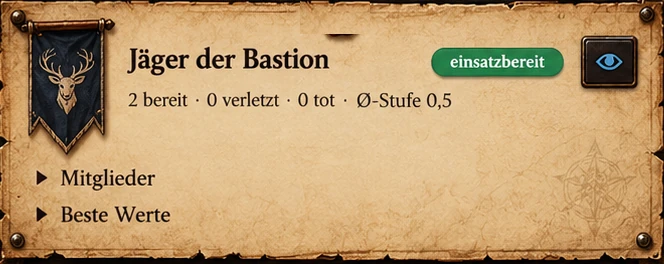
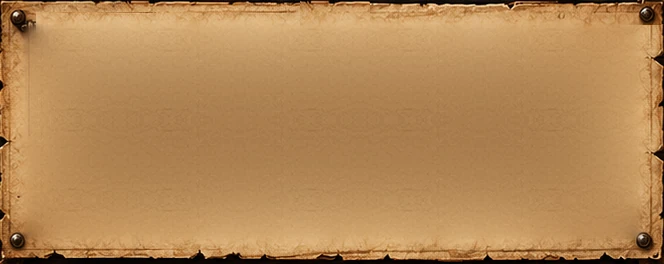
v0.7.2: Weichere Übergänge
- Pergament-Mitten werden aus den Randfarben neu aufgebaut (Diffusion + Papierstruktur)
  und als Teil desselben Bildes gezeichnet – kein aufgeklebter Innenbereich mehr
- Innenraum versinkt mit weichem Schatten im Rahmen
- Rahmen- und Kartenkanten mit feiner Kontur weicher gezeichnet

Claude-Session: https://claude.ai/code/session_01NGFgEtP1XSzh1s3ewJtebt

diff --git a/styles/nga.css b/styles/nga.css
@@ -703,3 +703,38 @@
   font-family: "Modesto Condensed", "Amiri", serif;
   margin: 0;
 }
+
+/* ---------- Weiche Übergänge (v0.7.2) ----------
+   Pergament kommt komplett aus einem Bild (Rand + geglättete Mitte),
+   dadurch kein "aufgeklebter" Innenbereich mehr. */
+.ascandir-nga .nga-parchment,
+.ascandir-nga .nga-pinned {
+  border-image: url("../assets/card.webp") 30 fill / 18px stretch;
+  background: none;
+  box-shadow: none;
+}
+.ascandir-nga .nga-mrow,
+.ascandir-nga .nga-editor,
+.ascandir-nga .nga-object {
+  border-image: url("../assets/row.webp") 32 fill / 20px stretch;
+  background: none;
+}
+.ascandir-nga .nga-mrow { box-shadow: none; }
+.ascandir-nga .nga-mrow.traveling { box-shadow: inset 4px 0 0 var(--nga-blue); }
+.ascandir-nga .nga-mrow.success { box-shadow: inset 4px 0 0 var(--nga-green); }
+.ascandir-nga .nga-mrow.partial { box-shadow: inset 4px 0 0 var(--nga-amber); }
+.ascandir-nga .nga-mrow.failure, .ascandir-nga .nga-mrow.disaster { box-shadow: inset 4px 0 0 var(--nga-fail); }
+.nga-chat {
+  border-image: url("../assets/card.webp") 30 fill / 14px stretch;
+  background: none;
+}
+/* Innenraum versinkt weich im Rahmen statt hart daran zu stoßen */
+.ascandir-nga.application .window-content {
+  box-shadow:
+    inset 0 10px 18px -4px rgba(0, 0, 0, 0.8),
+    inset 0 0 34px 10px rgba(0, 0, 0, 0.55);
+}
+/* Rahmen- und Kartenkanten etwas weicher zeichnen */
+.ascandir-nga.application { filter: drop-shadow(0 0 1px rgba(0, 0, 0, 0.9)) drop-shadow(0 14px 26px rgba(0, 0, 0, 0.75)); }
+.ascandir-nga .nga-parchment,
+.ascandir-nga .nga-mrow { filter: drop-shadow(0 0 1.5px rgba(30, 15, 5, 0.85)) drop-shadow(0 6px 8px rgba(0, 0, 0, 0.55)); }

diff --git a/tools/build_assets.py b/tools/build_assets.py
@@ -66,15 +66,62 @@ pt.paste(p, (0, 0)); pt.paste(p.transpose(FL), (p.width, 0))
 pt.paste(pt.crop((0, 0, pt.width, p.height)).transpose(Image.FLIP_TOP_BOTTOM), (0, p.height))
 pt.save(OUT + "parchment.jpg", quality=90)
 
-# ---- Gruppenkarte (nur Kanten werden genutzt); Siegel aus Oberkante entfernen
+import numpy as np
+
+GRAIN = None
+def grain():
+    """Feine Papierstruktur (Hochpass) aus einem sauberen Pergamentstück."""
+    global GRAIN
+    if GRAIN is None:
+        p = np.asarray(src.crop((300, 380, 420, 420)).convert("L"), dtype=np.float32)
+        blur = np.asarray(Image.fromarray(p.astype(np.uint8)).filter(ImageFilter.GaussianBlur(4)), dtype=np.float32)
+        hp = p - blur
+        tile = np.concatenate([hp, hp[:, ::-1]], axis=1)
+        GRAIN = np.concatenate([tile, tile[::-1, :]], axis=0)
+    return GRAIN
+
+def smooth_center(img, border):
+    """Mitte komplett neu aufbauen: aus den Randfarben "hineinwachsen" lassen
+    (Diffusion) und Papierstruktur darüberlegen – kein Text, keine Kante."""
+    w, h = img.size
+    rgb = np.asarray(img.convert("RGB"), dtype=np.float32)
+    known = np.zeros((h, w), bool)
+    known[:border, :] = known[-border:, :] = True
+    known[:, :border] = known[:, -border:] = True
+    sc = 4
+    small = np.asarray(img.convert("RGB").resize((w // sc, h // sc), Image.BILINEAR), dtype=np.float32)
+    ks = np.asarray(Image.fromarray((known * 255).astype(np.uint8)).resize((w // sc, h // sc), Image.NEAREST)) > 0
+    fill = small.copy()
+    fill[~ks] = small[ks].mean(axis=0)
+    for _ in range(400):
+        f = fill
+        avg = (np.roll(f, 1, 0) + np.roll(f, -1, 0) + np.roll(f, 1, 1) + np.roll(f, -1, 1)) / 4
+        fill = np.where(ks[..., None], small, avg)
+    big = np.asarray(Image.fromarray(fill.clip(0, 255).astype(np.uint8)).resize((w, h), Image.BICUBIC), dtype=np.float32)
+    g = grain()
+    gy = np.tile(g, (h // g.shape[0] + 1, w // g.shape[1] + 1))[:h, :w]
+    big = big + gy[..., None] * 0.9
+    m = np.zeros((h, w), np.float32)
+    m[border:h - border, border:w - border] = 1
+    m = np.asarray(Image.fromarray((m * 255).astype(np.uint8)).filter(ImageFilter.GaussianBlur(4)), dtype=np.float32)[..., None] / 255
+    out = rgb * (1 - m) + big * m
+    res = Image.fromarray(out.clip(0, 255).astype(np.uint8)).convert("RGBA")
+    res.putalpha(img.getchannel("A"))
+    return res
+
+# ---- Gruppenkarte; Siegel und Bannerstange aus der Oberkante entfernen
 card = src.crop((62, 262, 726, 526)).copy()
 card.paste(card.crop((120, 0, 190, 34)), (300, 0))
+card.paste(card.crop((170, 12, 290, 36)), (36, 12))
+card.paste(card.crop((card.width - 44, 120, card.width, 190)), (card.width - 44, 25))  # Augen-Knopf aus dem rechten Rand
+card = smooth_center(card, 24)
 save(card, "card")
 
 # ---- Missionszeile
 row = src.crop((60, 712, 1426, 862)).copy()
 # rechte Kante: Knopf-Reste durch gespiegelte linke Kante ersetzen
 row.paste(row.crop((0, 30, 34, row.height - 30)).transpose(FL), (row.width - 34, 30))
+row = smooth_center(row, 22)
 save(row, "row")
 
 # ---- Tabellenkopf (dunkle Leiste): Mitte durch leeres Stück ersetzen
